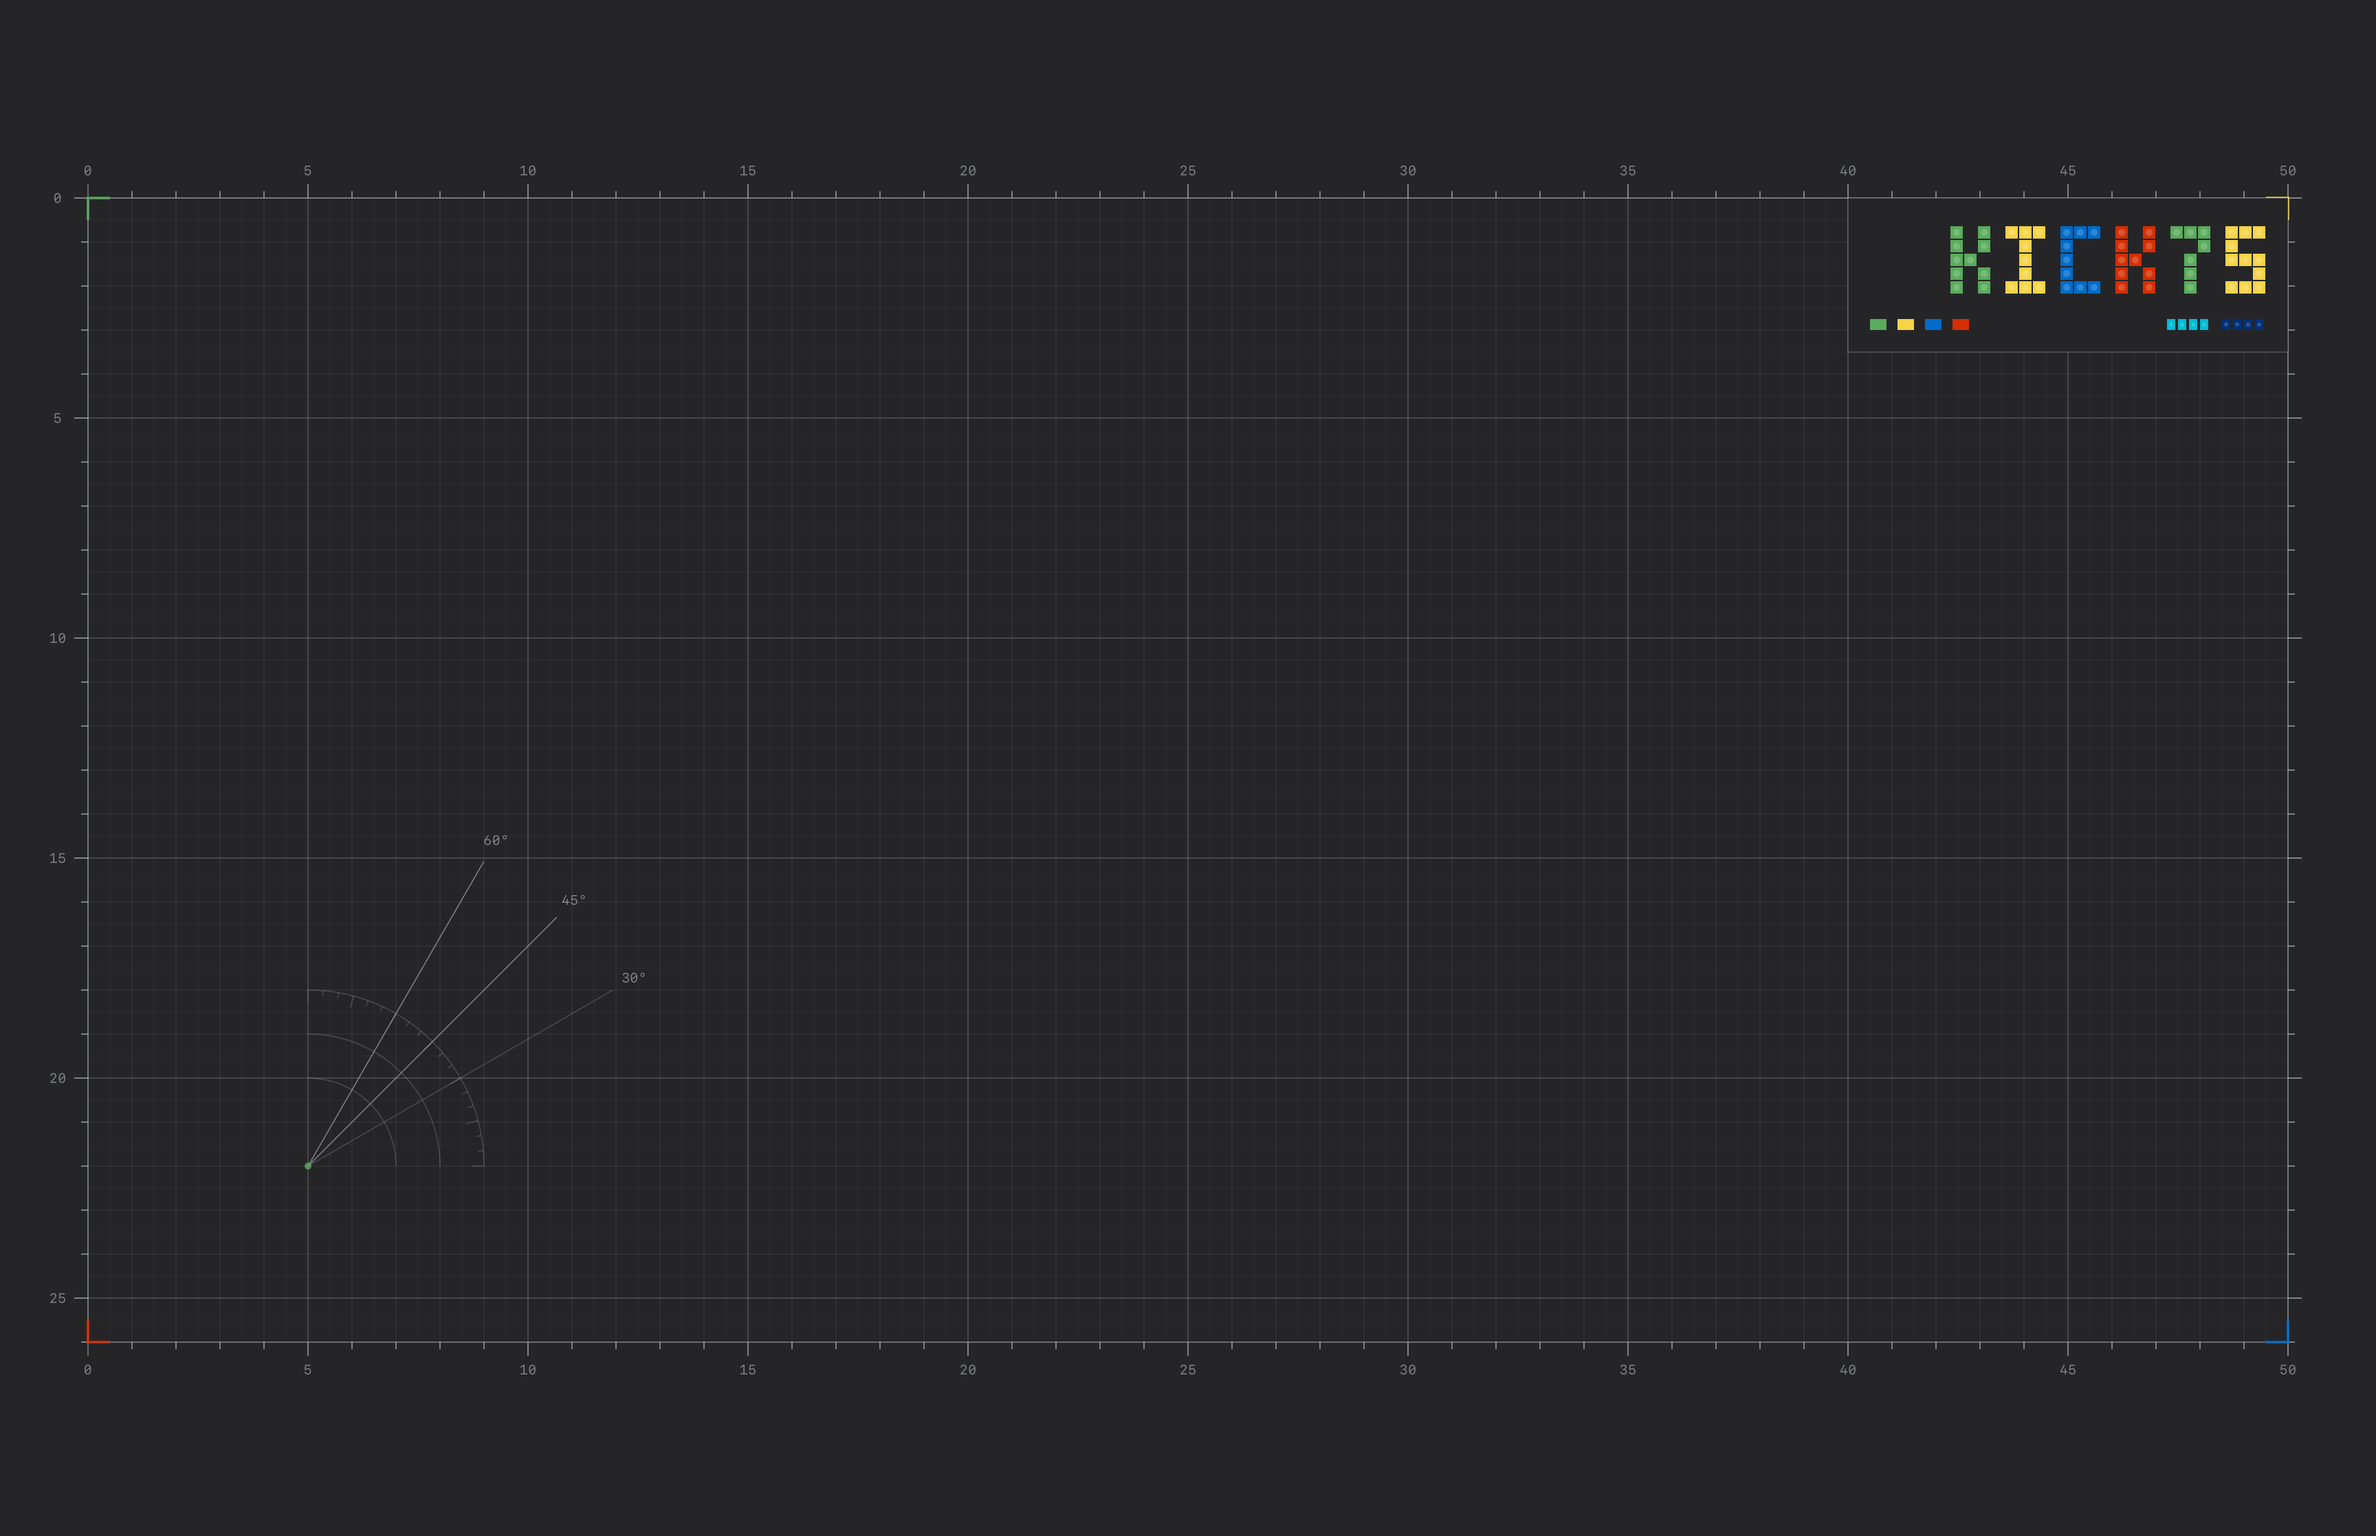
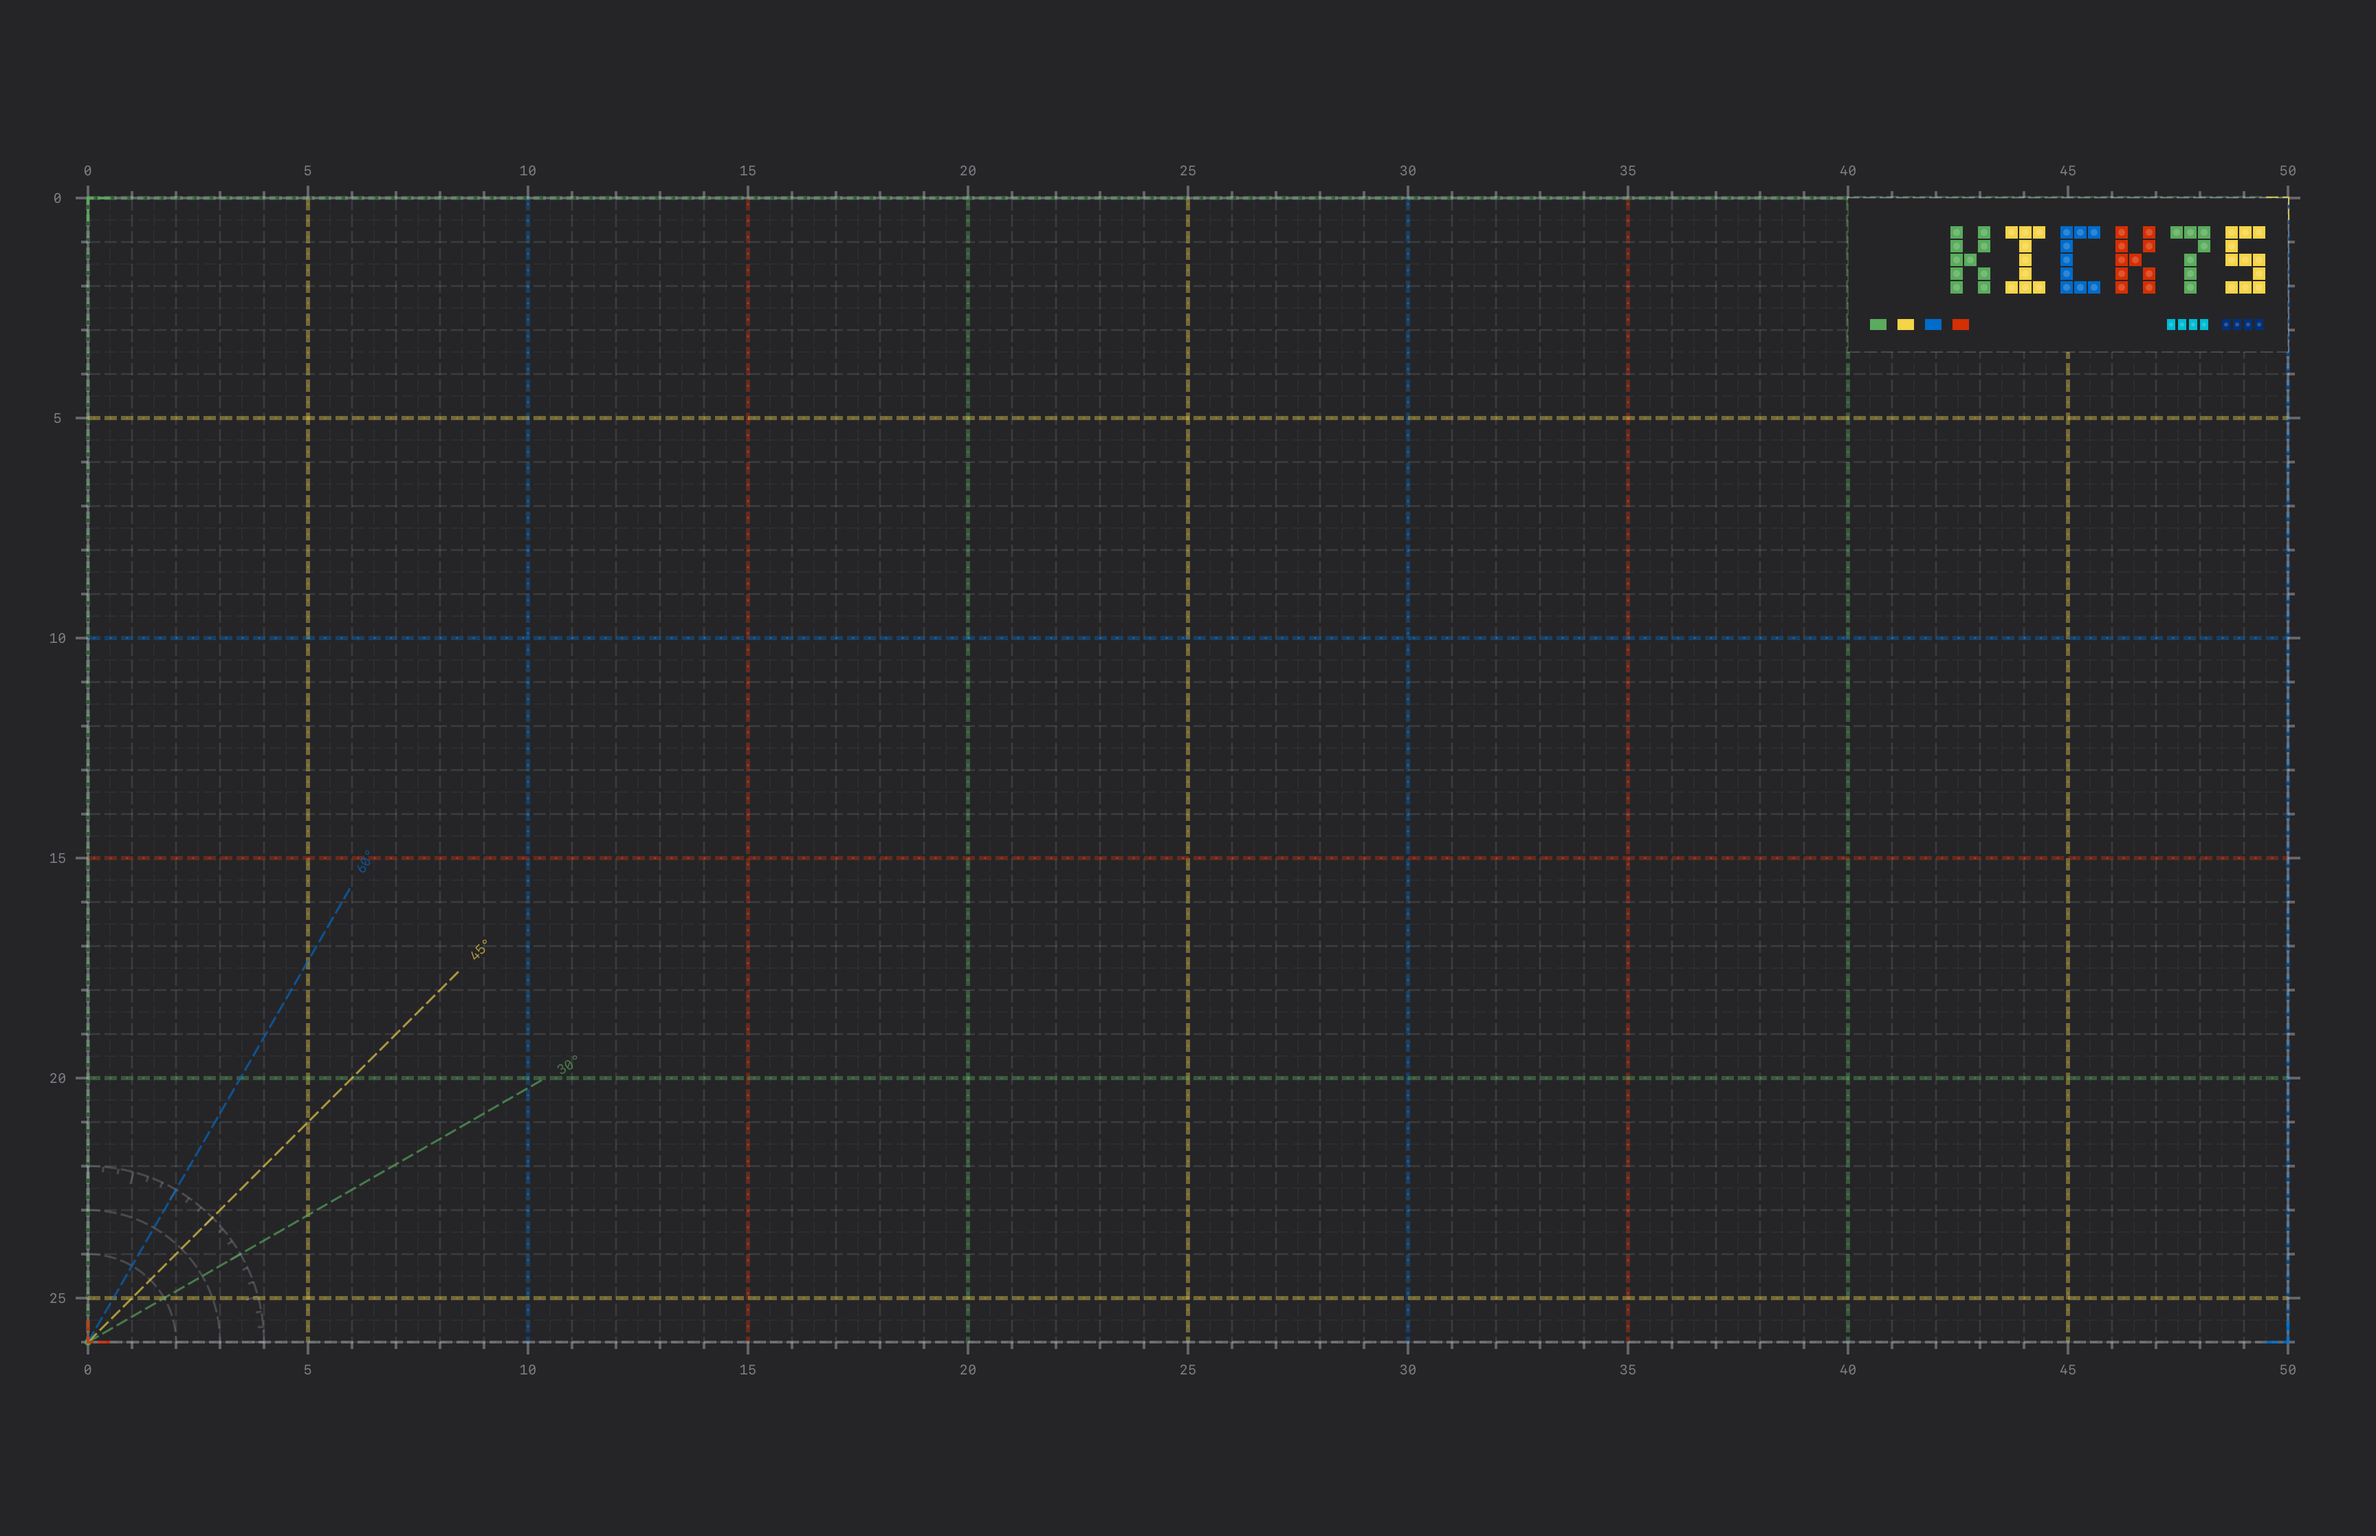
Match mat lines to keyboards and align angle labels

diff --git a/home/.config/sketchybar/wallpapers/wallpapers.swift b/home/.config/sketchybar/wallpapers/wallpapers.swift
@@ -26,13 +26,19 @@ func line(_ ctx: CGContext, _ x1: CGFloat, _ y1: CGFloat, _ x2: CGFloat, _ y2: C
 func dot(_ ctx: CGContext, _ x: CGFloat, _ y: CGFloat, _ r: CGFloat, _ color: CGColor) {
   ctx.setFillColor(color); ctx.fillEllipse(in: CGRect(x: x - r, y: y - r, width: 2 * r, height: 2 * r))
 }
-func label(_ text: String, _ x: CGFloat, _ y: CGFloat, _ color: UInt32) {
+func label(_ text: String, _ x: CGFloat, _ y: CGFloat, _ color: UInt32, rotation: CGFloat = 0) {
   let attributes: [NSAttributedString.Key: Any] = [
     .font: NSFont.monospacedSystemFont(ofSize: 20, weight: .regular),
     .foregroundColor: NSColor(cgColor: rgb(color, 0.65))!,
   ]
   let size = (text as NSString).size(withAttributes: attributes)
-  (text as NSString).draw(at: CGPoint(x: x - size.width / 2, y: y - size.height / 2), withAttributes: attributes)
+  let ctx = NSGraphicsContext.current!.cgContext
+  ctx.saveGState()
+  ctx.translateBy(x: x, y: y); ctx.rotate(by: rotation)
+  let frame = CGRect(x: -size.width / 2, y: -size.height / 2, width: size.width, height: size.height)
+  assert(CGRect(x: 0, y: 0, width: W, height: H).contains(ctx.convertToDeviceSpace(frame)))
+  (text as NSString).draw(at: CGPoint(x: -size.width / 2, y: -size.height / 2), withAttributes: attributes)
+  ctx.restoreGState()
 }
 
 let glyphs: [Character: [String]] = [
@@ -61,23 +67,31 @@ let palettes: [(String, String, UInt32, UInt32, [UInt32])] = [
 for (name, title, base, ink, accents) in palettes {
   render(name) { ctx in
     ctx.setFillColor(rgb(base)); ctx.fill(CGRect(x: 0, y: 0, width: W, height: H))
+    ctx.setLineCap(name == "node" ? .round : .butt)
+    ctx.setLineDash(phase: 0, lengths: name == "node" ? [0, 12] : name == "kick" ? [18, 6] : [])
 
     // Half-unit subdivisions, with a heavier line every five units.
     for vertical in [true, false] {
       let count = Int((vertical ? mat.width : mat.height) / (unit / 2))
       for i in 0...count {
         let major = i % 10 == 0, whole = i % 2 == 0
-        ctx.setStrokeColor(rgb(ink, major ? 0.32 : whole ? 0.16 : 0.07))
-        ctx.setLineWidth(major ? 1.5 : 1)
+        let color = major && name != "builtin" ? accents[(i / 10) % accents.count] : ink
+        ctx.setStrokeColor(rgb(color, major ? 0.38 : whole ? 0.16 : 0.07))
+        ctx.setLineWidth(name == "builtin" ? (major ? 1.5 : 1) : (major ? 6 : whole ? 2.5 : 1.5))
         let offset = CGFloat(i) * unit / 2
         if vertical {
           line(ctx, mat.minX + offset, mat.minY, mat.minX + offset, mat.maxY)
         } else {
           line(ctx, mat.minX, mat.minY + offset, mat.maxX, mat.minY + offset)
         }
+        if name == "kick" && major {
+          for along in stride(from: CGFloat(9), to: vertical ? mat.height : mat.width, by: 24) {
+            dot(ctx, mat.minX + (vertical ? offset : along), mat.minY + (vertical ? along : offset), 1.5, rgb(0xffffff, 0.16))
+          }
+        }
       }
     }
-    ctx.setStrokeColor(rgb(ink, 0.45)); ctx.setLineWidth(2); ctx.stroke(mat)
+    ctx.setStrokeColor(rgb(ink, 0.45)); ctx.setLineWidth(name == "builtin" ? 2 : 4); ctx.stroke(mat)
 
     // Rulers remain inside the 16:9 crop, including their labels.
     for i in 0...50 {
@@ -95,9 +109,9 @@ for (name, title, base, ink, accents) in palettes {
       if i % 5 == 0 { label(String(i), mat.minX - 44, y, ink) }
     }
 
-    // A quarter protractor and the usual cutting angles, away from the title.
-    let cx = mat.minX + 5 * unit, cy = mat.maxY - 4 * unit
-    ctx.setStrokeColor(rgb(ink, 0.26)); ctx.setLineWidth(1.5)
+    // Measure from the mat's bottom-left corner, with text aligned to each ray.
+    let cx = mat.minX, cy = mat.maxY
+    ctx.setStrokeColor(rgb(ink, 0.26)); ctx.setLineWidth(name == "builtin" ? 1.5 : 3)
     for radius in [2 * unit, 3 * unit, 4 * unit] {
       ctx.addArc(center: CGPoint(x: cx, y: cy), radius: radius, startAngle: -.pi / 2, endAngle: 0, clockwise: false)
       ctx.strokePath()
@@ -107,10 +121,12 @@ for (name, title, base, ink, accents) in palettes {
       let inner = 4 * unit - (degrees % 15 == 0 ? 18 : 8)
       line(ctx, cx + inner * cos(angle), cy - inner * sin(angle), cx + 4 * unit * cos(angle), cy - 4 * unit * sin(angle))
     }
-    for degrees in [30, 45, 60] {
-      let angle = CGFloat(degrees) * .pi / 180, length = 8 * unit
+    for (i, degrees) in [30, 45, 60].enumerated() {
+      let angle = CGFloat(degrees) * .pi / 180, length = 12 * unit
+      let color = name == "builtin" ? ink : accents[i % accents.count]
+      ctx.setStrokeColor(rgb(color, 0.65))
       line(ctx, cx, cy, cx + length * cos(angle), cy - length * sin(angle))
-      label("\(degrees)°", cx + (length + 36) * cos(angle), cy - (length + 36) * sin(angle), ink)
+      label("\(degrees)°", cx + (length + 40) * cos(angle), cy - (length + 40) * sin(angle), color, rotation: -angle)
     }
     dot(ctx, cx, cy, 5, rgb(accents[0], 0.8))
 

diff --git a/README.md b/README.md
@@ -338,6 +338,10 @@ macOS system blue on the pressed workspace. Each palette is one `case` branch in
 The wallpaper follows too, set by `sketchybarrc` on every load from
 `wallpapers/{kick,node,builtin}-mat.png`: deterministic cutting mats with fine grids,
 numbered rulers and 30°/45°/60° guides in each keyboard's case and legend colors.
+The guides start at the mat's bottom-left corner, with degree labels rotated
+along their rays. Kick's lines use brick segments and LEGO accent colors;
+Node's use round dots and mint/yellow/red accents; MacBook's stay continuous
+and monochrome.
 The model name sits at the top right: KICK75 in LEGO accent bricks, NODE75 in
 mint/yellow/red dot-matrix lettering, or MACBOOK in monochrome with system-blue
 markers. Kick and Node retain the four Kazakh sky-blue cells and four Australian
